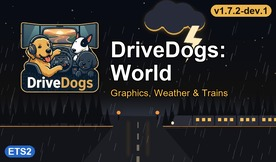
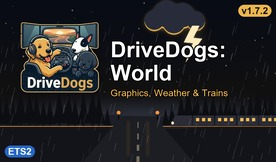
release world 1.7.2 after the playtest: wet junctions back without the sun patches
The maintainer played 1.7.2-dev.1 on 2026-11-18 (log clean, rain reflections and reflection quality at 3) and asked
for the release. ADR-0002 decision 6 records WET_JUNCTIONS: every road and paved layer of the 291 junction, yard and
parking materials gets one normal map and one shininess, the road's wheel-track map on the 55 slip-road joins and a
grain-only copy of it on the other 236; the README lists the junction wet grain again. The normal-road wet maps are
unchanged since 1.6.0; the maintainer will check the rain look further, and any change goes to 1.7.3. Every
generator is up to date, sign defs 2,023/0, model pairs 6,812/0 bad, and check --strict passes.

Changed region(s): [[0.7536, 0.0, 0.9855, 0.1235]]

diff --git a/docs/adr/ADR-0002-world-graphics.md b/docs/adr/ADR-0002-world-graphics.md
@@ -7,6 +7,7 @@
 - Amended: 2026-11-14 (1.6.0: DBM Road Textures above Asphalt_improved's road colours; decisions 2 and 15)
 - Amended: 2026-11-17 (1.7.1: Real companies' clamped base textures excluded, junction surfaces back to the game's;
   decisions 2 and 6)
+- Amended: 2026-11-19 (1.7.2: wet junctions back, one normal map and shininess on every paved layer; decision 6)
 
 ## Context
 
@@ -73,14 +74,19 @@
    buildings in patches. The legacy (pre-template) roads, ~8% of road items and most of the UK, which RRR never
    covered, get World's own wheel tracks (two troughs in each 0.25-U lane strip of their textures) and the templates'
    shininess 50 instead of Asphalt's 15.
-   Junction, yard and parking surfaces keep the game's own (amended 2026-11-17, World 1.7.1; maintainer: playtest of
-   1.7.1-dev.1 OK). From 1.4.1 to 1.7.0 they got a normal map: the road template's wheel-track map on the template
-   junctions (`JUNCTION_NMAPS`) and the legacy road's map with shininess 50 on ~230 UK junctions (`LEGACY_JUNCTIONS`).
-   In 77 two-layer blends only the asphalt layer got it, while the dark repair-patch (`dark_c2`-`c6`) or terrain
-   asphalt layer stayed flat with shininess 8, so in sun the jagged blend edges showed as lighter and darker patches
-   in junctions and roundabouts. Both switches are off. Bringing wet junctions back needs every paved layer of a
-   blend on the same normal map and shininess (the dark layer mostly uses world-generated UVs, so wheel tracks there
-   cannot follow the lanes).
+   Junction, yard and parking surfaces get one normal map and one shininess on every road and paved layer of a
+   material (`WET_JUNCTIONS`; amended 2026-11-19, World 1.7.2; maintainer: playtest of 1.7.2-dev.1, release), so the
+   layers of a blend differ only in colour, as in the game; grass and dirt layers get the flat map. Paved means any
+   road texture (the dark repair patches, rough and dusty asphalt, asphalt tiles), terrain asphalt and the junction
+   prefabs' asphalt-with-patches atlas. Where every paved layer is the road template's own texture on mesh UVs (55
+   materials, the slip-road joins) that map is the road's wheel-track blend; elsewhere (236, the UK prefabs and the
+   dark patches on world-generated UVs, where tracks cannot follow the lanes) it is a grain-only copy of the road's
+   map: its surface detail with the grain floor and no tracks (25 World-owned maps under `material/road/drivedog_wet/`,
+   34 MB, regenerated by the tool). The shininess is the road layer's, 50 where a legacy road layer is in the blend.
+   The tool fails if an edited material's paved layers differ in either. From 1.4.1 to 1.7.0 only the asphalt layer
+   got a map (`JUNCTION_NMAPS`, `LEGACY_JUNCTIONS`): in 77 two-layer blends the dark repair-patch (`dark_c2`-`c6`) or
+   terrain asphalt layer stayed flat with shininess 8, so in sun the jagged blend edges showed as lighter and darker
+   patches in junctions and roundabouts; 1.7.1 turned both off.
 7. **Kass:** lightning (20 bolt/cloud sets), thunder bank, and the water textures 1.61 uses (wave maps, river, muddy
    and green water, panorama, Balkan water plants), replacing Beautiful Water; beaches stay grass_4.0's. Its rain
    sounds, particles, spray, windshield, `game_data` and camera are not used.

diff --git a/README.md b/README.md
@@ -4,7 +4,7 @@ ETS2 mod for the world around the road, built as a local **megapack** with the `
 `scs-mod-developer` agent profile. This repo holds only configuration and tools. The mod is built from the
 extracted base game, subscribed Workshop items and one local archive. It is never redistributed.
 
-Current content (v1.7.1, ETS2 1.62.1.0, checked on 1.62.3.3):
+Current content (v1.7.2, ETS2 1.62.1.0, checked on 1.62.3.3):
 
 - **Graphics** from Juninho944 (Weather_3.9, Asphalt_improved, grass_4.0_lite, tree_improved_4k), DIOX (Beautiful
   Nature), Darkcaptain (Realistic Rain) and DBM (Vegetation, Terrain Textures, Road Textures, Guard Rails 4K, World &
@@ -14,7 +14,8 @@ Current content (v1.7.1, ETS2 1.62.1.0, checked on 1.62.3.3):
   thunder** from Kass (Realistic Rain & Water & Thunder Sounds).
 - **Wet roads**: Grimes' Realistic Rain Reflections wheel tracks blended into the winning road normal maps
   (World's own on the older roads), a rough wet grain on every asphalt road, its wet reflections on sidewalks, tiles,
-  concrete and junctions (junction surfaces stay the game's own), and a softer sky mirror so the asphalt shows through. Needs the game's rain reflections and reflection quality set high.
+  concrete and junctions (every asphalt of a junction gets the same wet grain, with the road's wheel tracks where a junction
+  continues the road's own surface), and a softer sky mirror so the asphalt shows through. Needs the game's rain reflections and reflection quality set high.
 - **Road signs and markings** from DBM Road Signs & Markings 4K; **real company and gas station brands** from Real
   companies & gas stations (MLH82, 4of25), its pre-1.62 gas-station models given 1.62's looks and price boards.
 - **Weather and time**: a rain mix of mostly light and medium rain, lighter rain fog at night so headlights reach and
